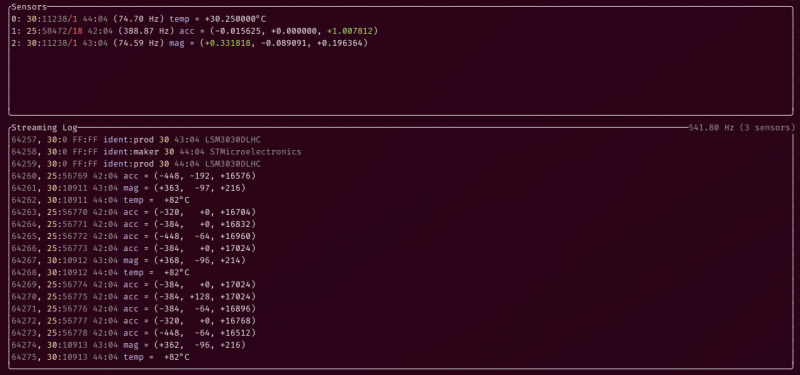
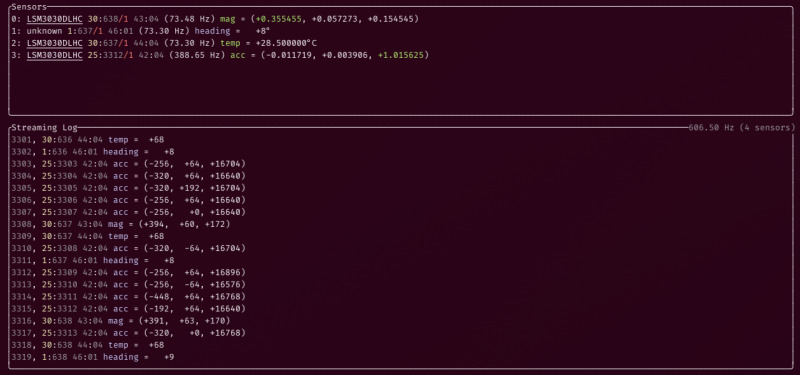
Update README.md picture

Changed region(s): [[0.0, 0.352, 0.375, 0.968], [0.0312, 0.0293, 0.5312, 0.176]]

diff --git a/src/data_buffer.rs b/src/data_buffer.rs
@@ -6,7 +6,7 @@ use std::time::Duration;
 
 use serial_sensors_proto::types::LinearRangeInfo;
 use serial_sensors_proto::versions::Version1DataFrame;
-use serial_sensors_proto::{DataFrame, SensorData, SensorId};
+use serial_sensors_proto::{DataFrame, IdentifierCode, SensorData, SensorId};
 
 use crate::fps_counter::FpsCounter;
 
@@ -26,6 +26,8 @@ struct InnerSensorDataBuffer {
     sequence: AtomicU32,
     num_skipped: AtomicU32,
     calibration: Option<LinearRangeInfo>,
+    maker: String,
+    product: String,
 }
 
 impl Default for SensorDataBuffer {
@@ -42,22 +44,6 @@ impl InnerSensorDataBuffer {
         Self {
             sensor_specific,
             ..Default::default()
-        }
-    }
-}
-
-impl Default for InnerSensorDataBuffer {
-    fn default() -> Self {
-        let capacity = 100;
-        Self {
-            sensor_specific: true,
-            capacity,
-            data: VecDeque::with_capacity(capacity),
-            len: AtomicUsize::new(0),
-            fps: FpsCounter::default(),
-            sequence: AtomicU32::new(0),
-            num_skipped: AtomicU32::new(0),
-            calibration: None,
         }
     }
 }
@@ -136,6 +122,13 @@ impl SensorDataBuffer {
         map.get(id).map(|entry| entry.skipped()).unwrap_or(0)
     }
 
+    pub fn get_sensor_name(&self, id: &SensorId) -> String {
+        let map = self.by_sensor.read().expect("failed to lock");
+        map.get(id)
+            .map(|entry| entry.product.clone())
+            .unwrap_or_default()
+    }
+
     pub fn transform_values(&self, id: &SensorId, values: &mut [f32]) -> bool {
         let map = self.by_sensor.read().expect("failed to lock");
         map.get(id)
@@ -147,6 +140,24 @@ impl SensorDataBuffer {
                 true
             })
             .unwrap_or(false)
+    }
+}
+
+impl Default for InnerSensorDataBuffer {
+    fn default() -> Self {
+        let capacity = 100;
+        Self {
+            sensor_specific: true,
+            maker: String::new(),
+            product: String::new(),
+            capacity,
+            data: VecDeque::with_capacity(capacity),
+            len: AtomicUsize::new(0),
+            fps: FpsCounter::default(),
+            sequence: AtomicU32::new(0),
+            num_skipped: AtomicU32::new(0),
+            calibration: None,
+        }
     }
 }
 
@@ -166,6 +177,17 @@ impl InnerSensorDataBuffer {
         if self.sensor_specific && frame.is_meta() {
             if let SensorData::LinearRanges(calibration) = frame.value {
                 self.calibration = Some(calibration);
+            } else if let SensorData::Identification(ident) = frame.value {
+                match ident.code {
+                    IdentifierCode::Generic => {}
+                    IdentifierCode::Maker => {
+                        self.maker = String::from(ident.as_str().unwrap_or("").trim())
+                    }
+                    IdentifierCode::Product => {
+                        self.product = String::from(ident.as_str().unwrap_or("").trim())
+                    }
+                    IdentifierCode::Revision => {}
+                }
             }
 
             return;

diff --git a/src/components/sensors.rs b/src/components/sensors.rs
@@ -63,10 +63,18 @@ impl Component for Sensors {
                     "".into()
                 };
 
+                let name = self.receiver.get_sensor_name(&id);
+                let name = if !name.is_empty() {
+                    Span::styled(name, Style::default().white().underlined())
+                } else {
+                    "unknown".into()
+                };
+
                 let mut lines = vec![
                     Span::styled(format!("{no}"), Style::default()),
                     ": ".into(),
-                    Span::styled(id.tag().to_string(), Style::default().yellow()),
+                    name,
+                    Span::styled(format!(" {}", id.tag()), Style::default().yellow()),
                     ":".into(),
                     Span::styled(frame.sensor_sequence.to_string(), Style::default().dim()),
                     skipped,
